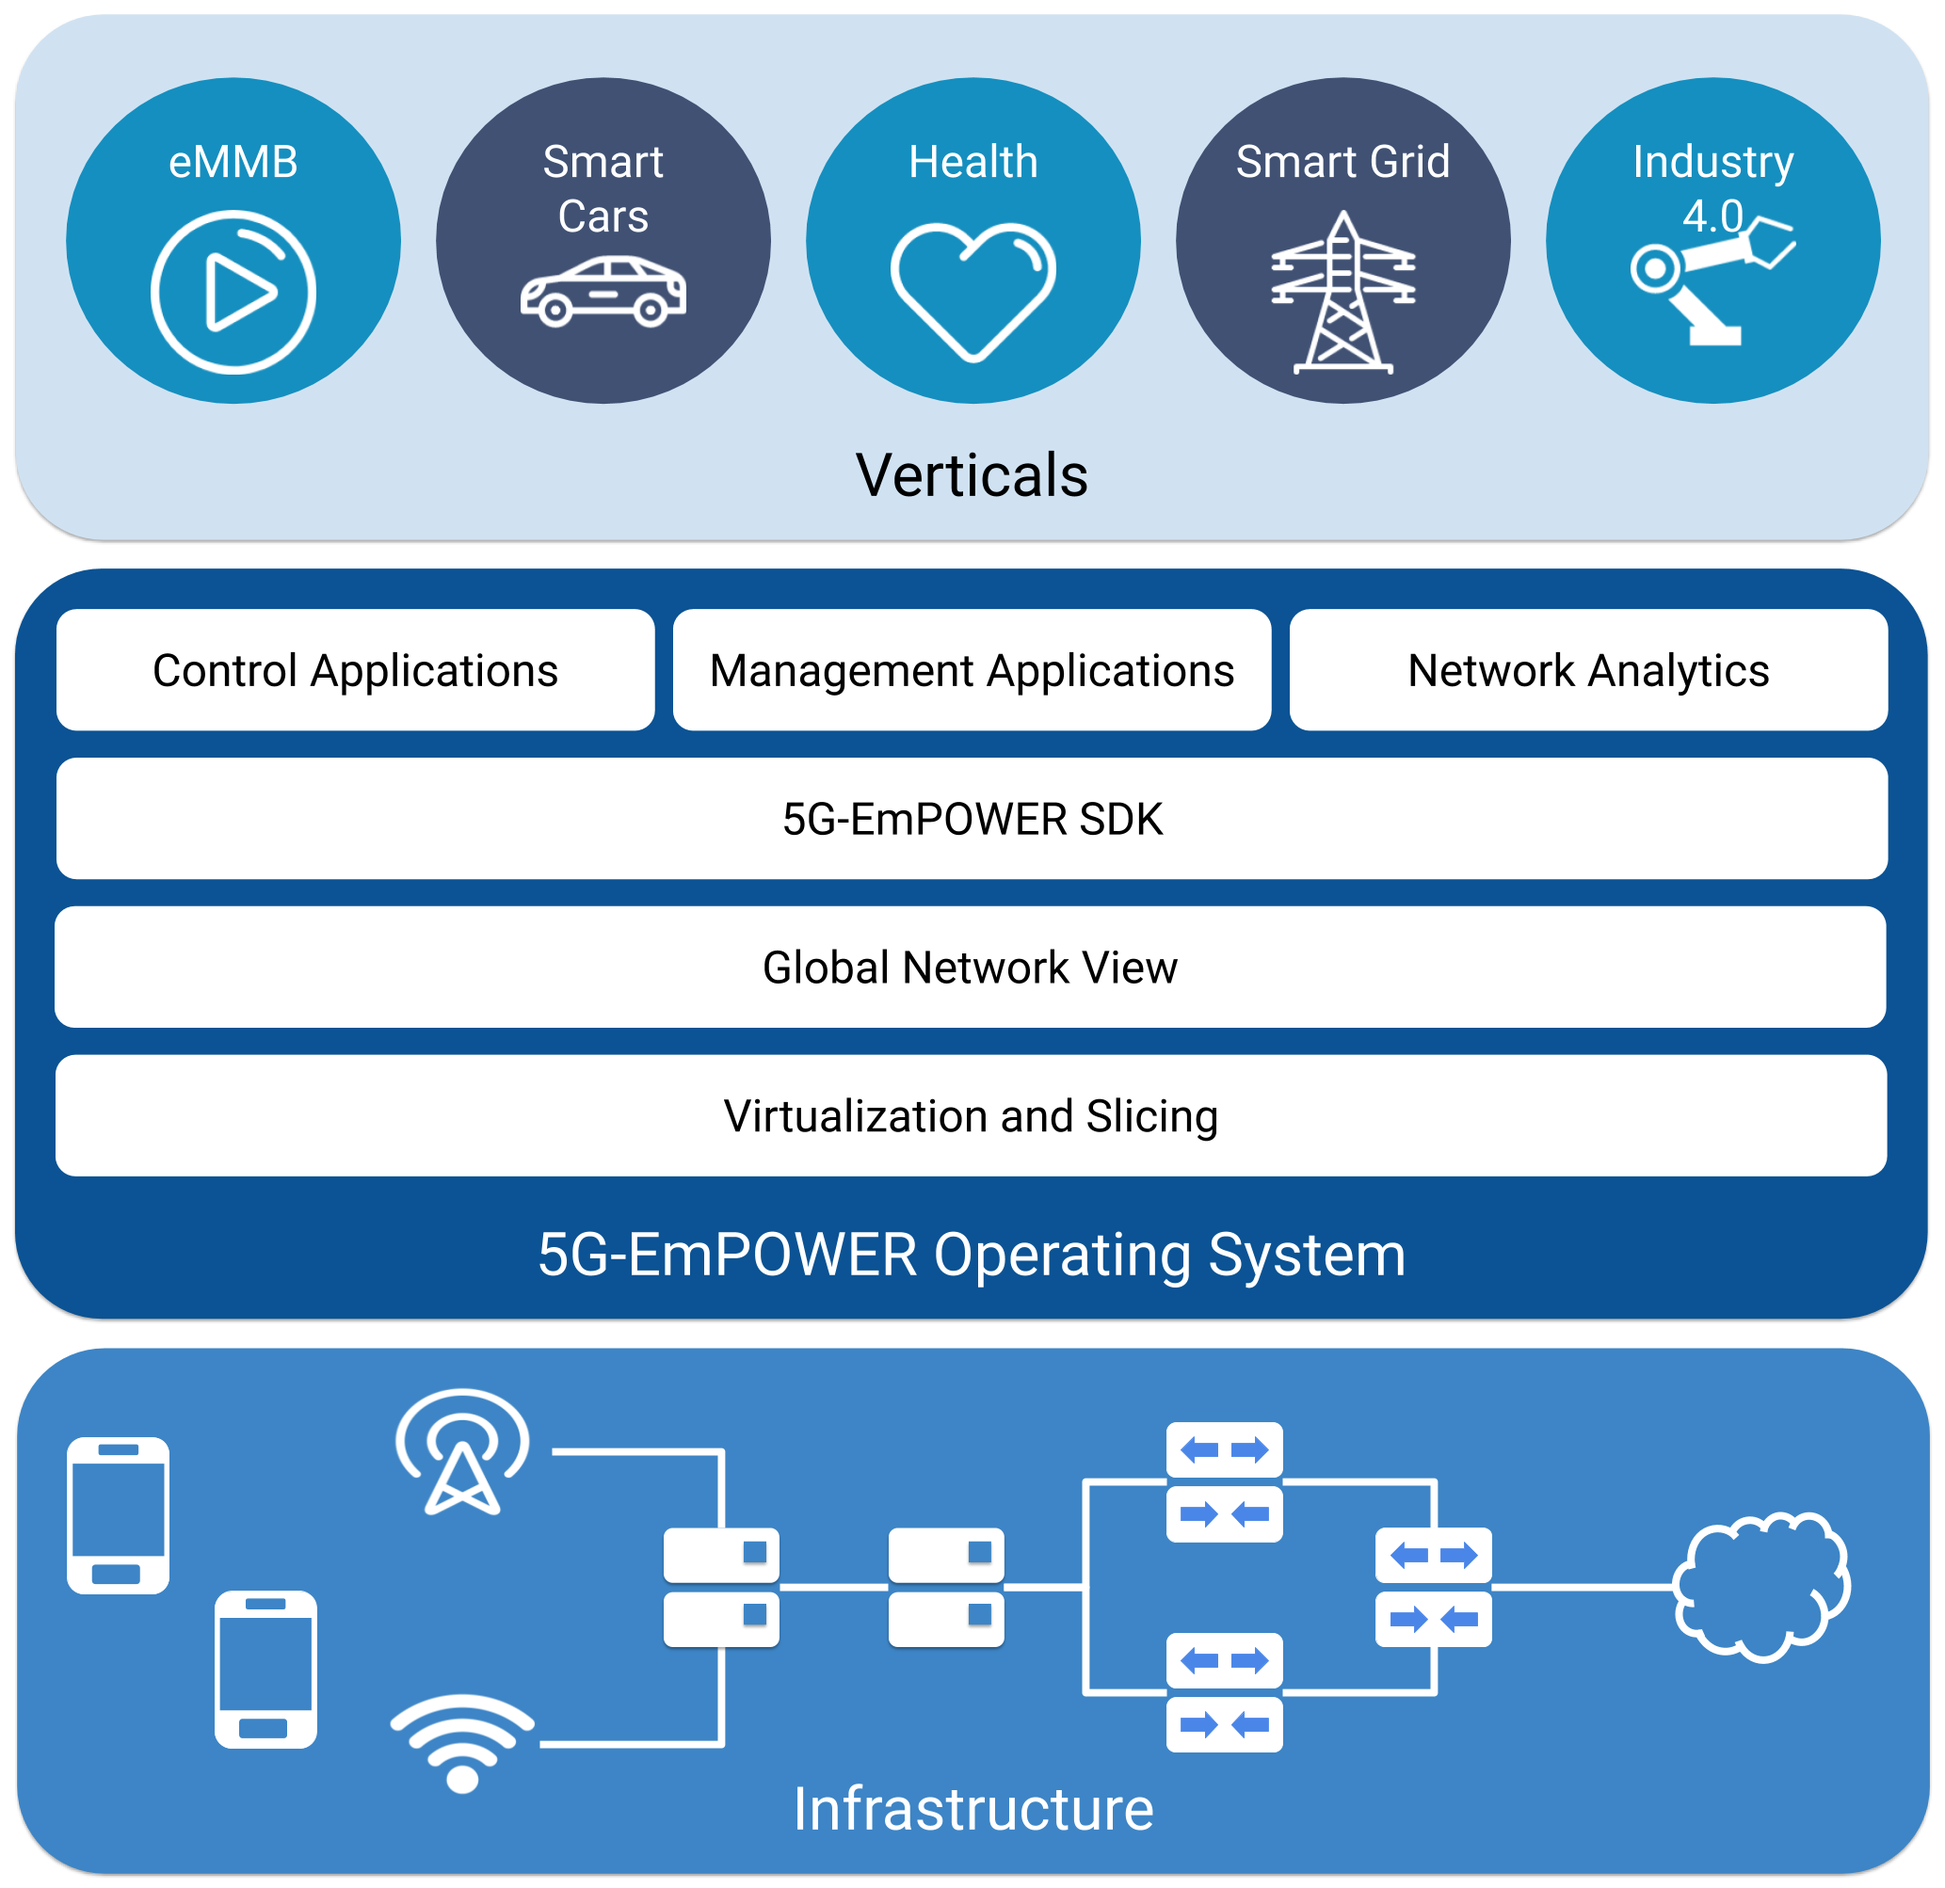
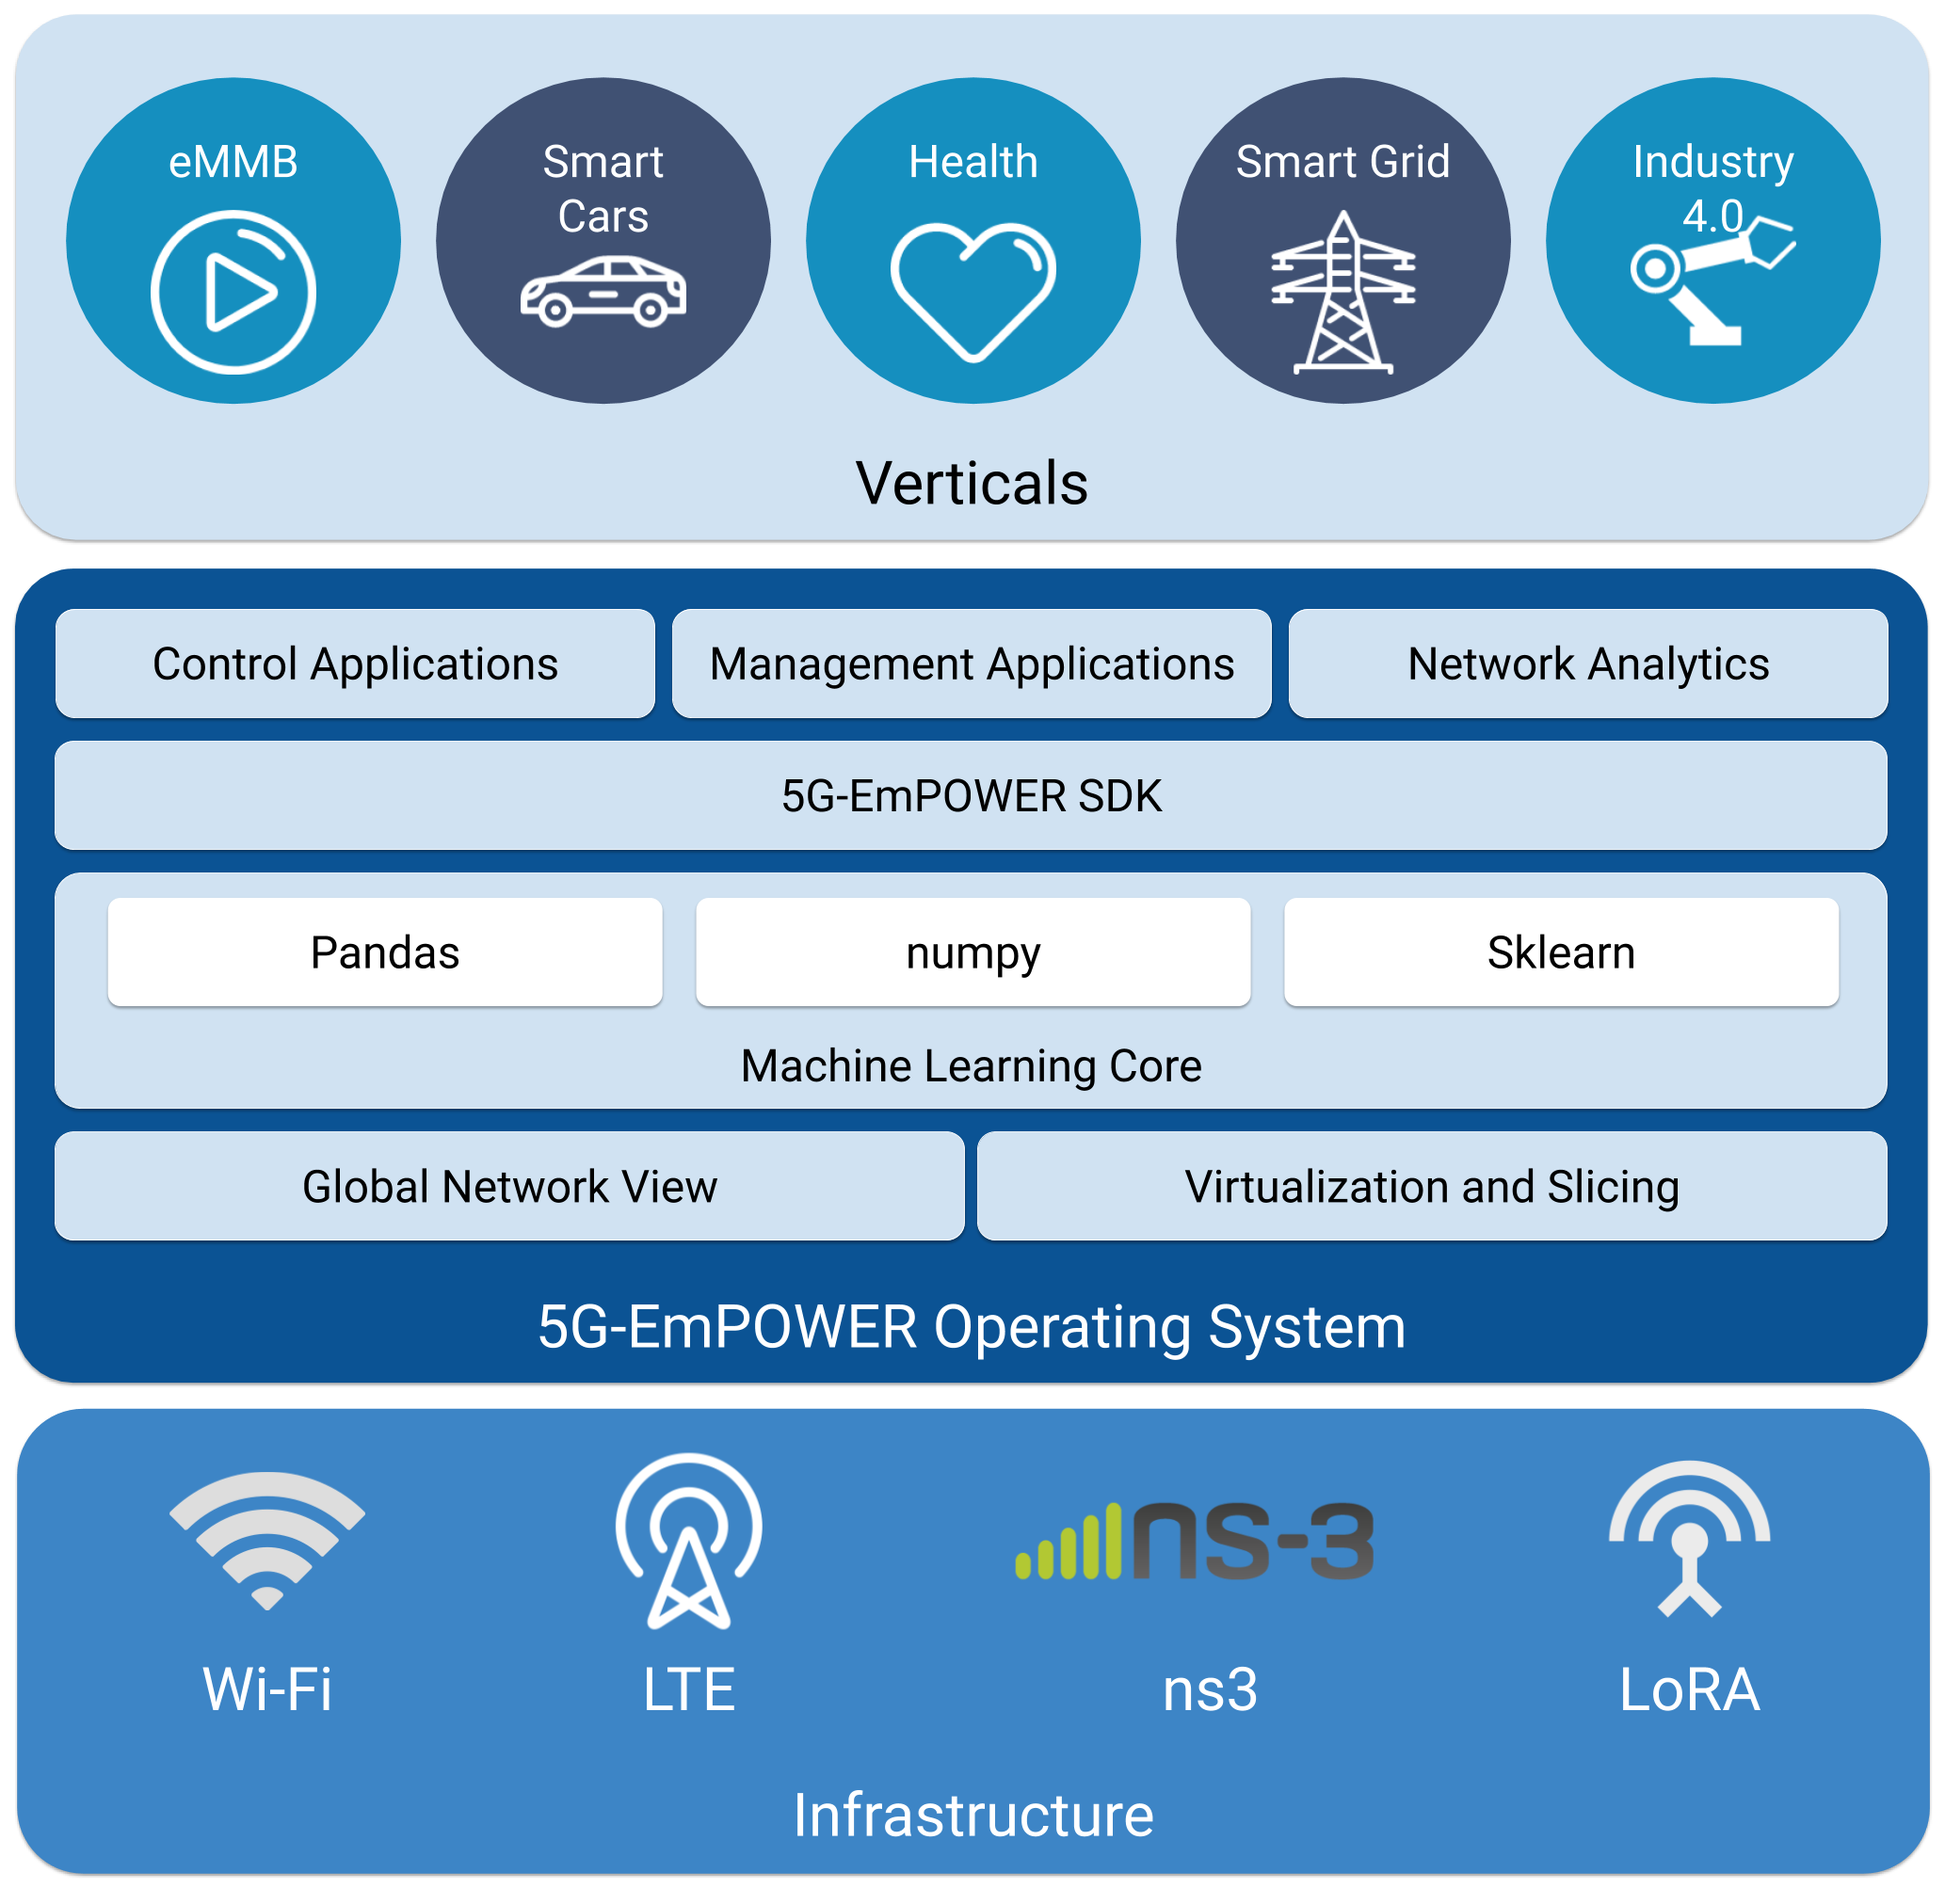
Refresh image and description

diff --git a/index.html b/index.html
@@ -118,8 +118,8 @@
               <div class="col-lg-4">
                 <div class="feature-item">
                   <i class="icon-paper-plane text-primary"></i>
-                  <h3>Light Virtualization</h3>
-                  <p>Control-User Plane separation trought a novel SBi interface.</p>
+                  <h3>AI-enabled</h3>
+                  <p>Embedded support for the most popular Machine learning toolkits.</p>
                 </div>
               </div>
               <div class="col-lg-4">
